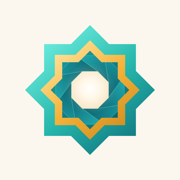
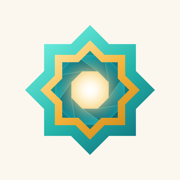
Make loading the mark drawing itself, and fix a light that fell off the wrong way
Two things, and the second is why the first needed changing.

**The spinner is now the mark drawing itself.** It was a generic border-spin with
`animate-spin`; it is now the khatim tracing its own outlines — field in, turquoise ring
traced, gold ring a beat behind it, blades fading in, aperture lighting last, and only
then the blades turning until the content arrives. The draw therefore happens once per
loading episode rather than flickering on a loop, which is what ruled out the obvious
draw-then-erase treatment.

Three details in it are load-bearing:

- **The rotation is 45 degrees, not 360.** The eight blades are one shape repeated every
  45, so the frame at 45 is identical to the frame at 0. The loop closes on itself and
  needs no easing, no crossfade and no hidden reset.
- **`--len` is each ring's measured perimeter** (265.10 and 212.08 user units). The trace
  works by putting the whole stroke into a dash gap and walking the offset to zero; a
  wrong length means a ring that starts part-drawn or never closes.
- **`iris-fade`'s keyframes are declared in index.css, not tailwind.config.js.** Tailwind
  only emits @keyframes for an animation whose utility class it finds in the markup, and
  nothing renders `animate-iris-fade` — it is reached only from the reduced-motion rule.
  Configured there it compiled to nothing, and the media query silently left the spinner
  completely static: precisely the frozen-page reading it exists to prevent. Verified
[…]

Changed region(s): [[0.3333, 0.3333, 0.6667, 0.6667]]

diff --git a/src/components/ui/IrisMark.jsx b/src/components/ui/IrisMark.jsx
@@ -1,0 +1,150 @@
+import { useId } from 'react';
+
+/**
+ * The brand mark as inline SVG, optionally animating itself into existence.
+ *
+ * Bare on purpose — no wrapper, no padding, no layout of its own — so it can be dropped
+ * anywhere: a splash, an empty state, a page hero. `Spinner` is this plus the block
+ * wrapper that page- and section-level loading needs.
+ *
+ * <h2>Why the geometry is repeated here</h2>
+ * This is a second copy of the artwork in `src/assets/logo.svg`, and it is deliberate: the
+ * blades have to be a group CSS can rotate and the rings have to be paths CSS can trace,
+ * and an `<img src="logo.svg">` gives no handle on anything inside the file. **If the mark
+ * changes, this changes with it** — nothing in the build would catch the drift.
+ *
+ * Only the parts that read at 40px are reproduced — the blades' lit leading edges are left
+ * out as hero-size detail, invisible here and one more thing to keep in sync for no visible
+ * gain. The glow spill IS reproduced: it carries the falloff from the aperture outward, and
+ * without it the opening reads as a bright slab rather than as a source. Below about 24px
+ * the iris stops resolving at all — use a plain icon there rather than shrinking this.
+ *
+ * <h2>The mark draws itself, then turns</h2>
+ * With `animate`, the loading state is the act of drawing: the two rings trace along their
+ * own outlines, the iris fades in behind them, the aperture lights last, and only once the
+ * mark is whole do the blades start turning. So the draw happens once per loading episode
+ * rather than flickering on a loop. The choreography lives in `src/index.css`; `--len` is
+ * each ring's true perimeter, measured off the geometry — get it wrong and a ring either
+ * starts part-drawn or never closes.
+ *
+ * `animate={false}` gives the finished mark, still, for decorative use.
+ *
+ * <h2>Reduced motion</h2>
+ * `prefers-reduced-motion` drops the draw and the turn and leaves a finished mark that
+ * fades. A loading indicator that goes completely still reads as a frozen page.
+ */
+function IrisMark({ size = '40px', animate = true, label, className = '' }) {
+    // Scoped, so two marks on one page cannot collide over gradient ids.
+    const id = useId();
+    const g = (name) => `${id}-${name}`;
+    const on = (cls) => (animate ? cls : '');
+
+    return (
+        <svg
+            width={size}
+            height={size}
+            viewBox="0 0 100 100"
+            className={`${animate ? 'iris-mark ' : ''}${className}`}
+            {...(label
+                ? { role: 'status', 'aria-label': label }
+                : { role: 'presentation', 'aria-hidden': true })}
+        >
+            <defs>
+                <linearGradient id={g('teal')} x1="10%" y1="0%" x2="90%" y2="100%">
+                    <stop offset="0%" stopColor="#6FF0E0" />
+                    <stop offset="55%" stopColor="#25B5AA" />
+                    <stop offset="100%" stopColor="#0F7480" />
+                </linearGradient>
+                <linearGradient id={g('field')} x1="10%" y1="0%" x2="90%" y2="100%">
+                    <stop offset="0%" stopColor="#1FA69E" />
+                    <stop offset="100%" stopColor="#0D6470" />
+                </linearGradient>
+                <linearGradient id={g('blade1')} x1="0%" y1="0%" x2="100%" y2="100%">
+                    <stop offset="0%" stopColor="#23AFB2" />
+                    <stop offset="100%" stopColor="#0E6674" />
+                </linearGradient>
+                <linearGradient id={g('blade2')} x1="0%" y1="0%" x2="100%" y2="100%">
+                    <stop offset="0%" stopColor="#1A98A0" />
+                    <stop offset="100%" stopColor="#0C606D" />
+                </linearGradient>
+                <linearGradient id={g('gold')} x1="10%" y1="0%" x2="90%" y2="100%">
+                    <stop offset="0%" stopColor="#FFE7A8" />
+                    <stop offset="50%" stopColor="#F5B43B" />
+                    <stop offset="100%" stopColor="#CE8A1B" />
+                </linearGradient>
+                {/* Centred at 50/50 with a real falloff, matching logo.svg — an off-centre
+                    hotspot and stops all within a few percent of white made the opening read
+                    as a flat slab rather than as a source dimming outward. */}
+                <radialGradient id={g('core')} cx="50%" cy="50%" r="60%">
+                    <stop offset="0%" stopColor="#FFFFFF" />
+                    <stop offset="30%" stopColor="#FFFAEC" />
+                    <stop offset="65%" stopColor="#FCE9B8" />
+                    <stop offset="100%" stopColor="#F3CE84" />
+                </radialGradient>
+                <radialGradient id={g('glow')} cx="50%" cy="50%" r="50%">
+                    <stop offset="0%" stopColor="#FFF6DE" stopOpacity=".96" />
+                    <stop offset="34%" stopColor="#FDEBC2" stopOpacity=".82" />
+                    <stop offset="58%" stopColor="#FADFA2" stopOpacity=".50" />
+                    <stop offset="80%" stopColor="#F6D189" stopOpacity=".20" />
+                    <stop offset="100%" stopColor="#F2C170" stopOpacity="0" />
+                </radialGradient>
+            </defs>
+
+            <polygon
+                points="86.500,50.000 75.809,60.691 75.809,75.809 60.691,75.809 50.000,86.500 39.309,75.809 24.191,75.809 24.191,60.691 13.500,50.000 24.191,39.309 24.191,24.191 39.309,24.191 50.000,13.500 60.691,24.191 75.809,24.191 75.809,39.309"
+                fill={`url(#${g('field')})`}
+                className={on('iris-field')}
+            />
+
+            {/* Fades in behind the rings, then turns once they have finished drawing. The
+                origin is the viewBox centre, not the group's own bounding box — that box
+                shifts as the blades turn and the iris would wobble. */}
+            <g className={on('iris-blades')}>
+                <g className={on('iris-spin')}>
+                    <rect x="25.966" y="25.966" width="48.069" height="48.069" fill={`url(#${g('blade2')})`} />
+                    {[0, 1, 2, 3, 4, 5, 6, 7].map((i) => (
+                        <polygon
+                            key={i}
+                            points="40.046,25.970 59.954,25.970 63.000,44.615 55.385,37.000"
+                            fill={`url(#${g(i % 2 === 0 ? 'blade1' : 'blade2')})`}
+                            transform={`rotate(${i * 45} 50 50)`}
+                        />
+                    ))}
+                </g>
+            </g>
+
+            <polygon
+                points="82.000,50.000 72.627,59.373 72.627,72.627 59.373,72.627 50.000,82.000 40.627,72.627 27.373,72.627 27.373,59.373 18.000,50.000 27.373,40.627 27.373,27.373 40.627,27.373 50.000,18.000 59.373,27.373 72.627,27.373 72.627,40.627"
+                fill="none"
+                stroke={`url(#${g('gold')})`}
+                strokeWidth="6.5"
+                strokeLinejoin="miter"
+                className={on('iris-ring')}
+                style={animate ? { '--len': 215, animationDelay: '0.3s' } : undefined}
+            />
+            <polygon
+                points="90.000,50.000 78.284,61.716 78.284,78.284 61.716,78.284 50.000,90.000 38.284,78.284 21.716,78.284 21.716,61.716 10.000,50.000 21.716,38.284 21.716,21.716 38.284,21.716 50.000,10.000 61.716,21.716 78.284,21.716 78.284,38.284"
+                fill="none"
+                stroke={`url(#${g('teal')})`}
+                strokeWidth="7.5"
+                strokeLinejoin="miter"
+                className={on('iris-ring')}
+                style={animate ? { '--len': 268 } : undefined}
+            />
+
+            {/* Lights last, and after the blades in document order so they turn behind the
+                opening rather than sweeping across it — as the real thing does. Spill first,
+                then the opening on top, so the two read as one gradient falling off from the
+                centre with no step at the aperture edge. */}
+            <g className={on('iris-light')}>
+                <circle cx="50" cy="50" r="22" fill={`url(#${g('glow')})`} />
+                <polygon
+                    points="63.000,44.615 63.000,55.385 55.385,63.000 44.615,63.000 37.000,55.385 37.000,44.615 44.615,37.000 55.385,37.000"
+                    fill={`url(#${g('core')})`}
+                />
+            </g>
+        </svg>
+    );
+}
+
+export default IrisMark;

diff --git a/src/index.css b/src/index.css
@@ -130,3 +130,96 @@
     text-decoration: underline;
   }
 }
+
+/* ----------------------------------------------------------------------------------
+   Spinner.jsx — the mark drawing itself, then settling into a turn.
+
+   The loading state IS the act of drawing: the two rings trace themselves along their
+   own outlines, the iris fades in behind them, and the aperture lights last. Once it is
+   whole the blades keep turning until the content arrives, so the draw happens exactly
+   once per loading episode instead of flickering on a loop.
+
+   `--len` is the true perimeter of each ring (265.10 and 212.08 user units, measured off
+   the geometry, rounded up). stroke-dasharray of one full-length dash plus an offset of
+   the same length puts the whole stroke in the gap; animating the offset to zero walks
+   the visible part around the path. Get the length wrong and the trace either starts
+   part-drawn or never finishes.
+   ---------------------------------------------------------------------------------- */
+
+@keyframes iris-draw {
+  from { stroke-dashoffset: var(--len); }
+  to   { stroke-dashoffset: 0; }
+}
+
+@keyframes iris-emerge {
+  from { opacity: 0; }
+  to   { opacity: 1; }
+}
+
+@keyframes iris-bloom {
+  0%   { opacity: 0; transform: scale(0.4); }
+  70%  { opacity: 1; transform: scale(1.06); }
+  100% { opacity: 1; transform: scale(1); }
+}
+
+/* 45deg and not 360: the eight blades are one shape repeated every 45deg, so the frame
+   at 45deg is identical to the frame at 0 and the loop has no seam to hide. */
+@keyframes iris-turn {
+  from { transform: rotate(0deg); }
+  to   { transform: rotate(45deg); }
+}
+
+@keyframes iris-fade {
+  0%, 100% { opacity: 1; }
+  50%      { opacity: 0.45; }
+}
+
+.iris-ring {
+  stroke-dasharray: var(--len);
+  stroke-dashoffset: var(--len);
+  animation: iris-draw 1s cubic-bezier(0.4, 0, 0.2, 1) forwards;
+}
+
+.iris-field   { opacity: 0; animation: iris-emerge 0.5s ease-out forwards; }
+.iris-blades  { opacity: 0; animation: iris-emerge 0.5s ease-out 0.55s forwards; }
+
+.iris-light {
+  opacity: 0;
+  transform-box: fill-box;
+  transform-origin: center;
+  animation: iris-bloom 0.55s cubic-bezier(0.34, 1.3, 0.64, 1) 0.9s forwards;
+}
+
+/* Starts only once the mark is whole, so nothing turns while it is still being drawn. */
+.iris-spin {
+  transform-box: view-box;
+  transform-origin: 50px 50px;
+  animation: iris-turn 2.4s linear 1.45s infinite;
+}
+
+/* Someone who has asked their OS for reduced motion should not get a rotating object —
+   but a spinner that stops dead reads as a frozen page, the one thing a loading
+   indicator must never say. So the draw and the turn both go, and a fade takes over the
+   job of showing that work is still happening. */
+@media (prefers-reduced-motion: reduce) {
+  .iris-ring {
+    stroke-dashoffset: 0;
+    animation: none;
+  }
+
+  .iris-field,
+  .iris-blades,
+  .iris-light {
+    opacity: 1;
+    transform: none;
+    animation: none;
+  }
+
+  .iris-spin {
+    animation: none;
+  }
+
+  .iris-mark {
+    animation: iris-fade 1.8s ease-in-out infinite;
+  }
+}

diff --git a/src/components/ui/Spinner.jsx b/src/components/ui/Spinner.jsx
@@ -1,12 +1,27 @@
-// size stays inline (runtime-variable), everything else is Tailwind — including
-// the spin animation itself, which Tailwind ships as `animate-spin` out of the box.
-function Spinner({ size = '40px' }) {
+import IrisMark from './IrisMark';
+import { t } from '@/i18n';
+
+/**
+ * Block-level loading indicator: the brand mark drawing itself, in a box sized to sit in
+ * the slot a page or section's content will fill.
+ *
+ * All the artwork and motion live in `IrisMark` — reach for that directly anywhere the
+ * padding here would be wrong (inline in a button, inside a badge, as decoration).
+ *
+ * <h2>What this is NOT for</h2>
+ * Three places deliberately keep a plain `animate-spin` lucide icon instead:
+ * `VideoCard`'s 12px processing badge and `YouTubeImportPanel`'s 14px button icon, both
+ * far below the ~24px where the iris stops resolving; and `VideoControlBar`'s buffering
+ * overlay, which appears and vanishes inside a second — the draw takes 1.45s, so it would
+ * never finish, and a half-drawn logo flashing over playback reads as a fault.
+ */
+function Spinner({ size = '40px', label = t('common.loading') }) {
     return (
-        <div className="flex justify-center py-10">
-            <div
-                className="rounded-full border-[3px] border-border border-t-primary animate-spin"
-                style={{ width: size, height: size }}
-            />
+        // py-16 matches EmptyState, which is what QueryState swaps this for on the error
+        // and empty branches. At py-10 the box was 24px shorter, so every list that failed
+        // or came back empty jolted the page as it settled.
+        <div className="flex justify-center py-16">
+            <IrisMark size={size} label={label} />
         </div>
     );
 }

diff --git a/src/components/ui/index.js b/src/components/ui/index.js
@@ -5,6 +5,7 @@ export { default as Modal } from './Modal';
 export { default as Badge } from './Badge';
 export { default as Grid } from './Grid';
 export { default as Spinner } from './Spinner';
+export { default as IrisMark } from './IrisMark';
 export { default as EmptyState } from './EmptyState';
 export { default as Avatar } from './Avatar';
 export { default as QueryState } from './QueryState';
